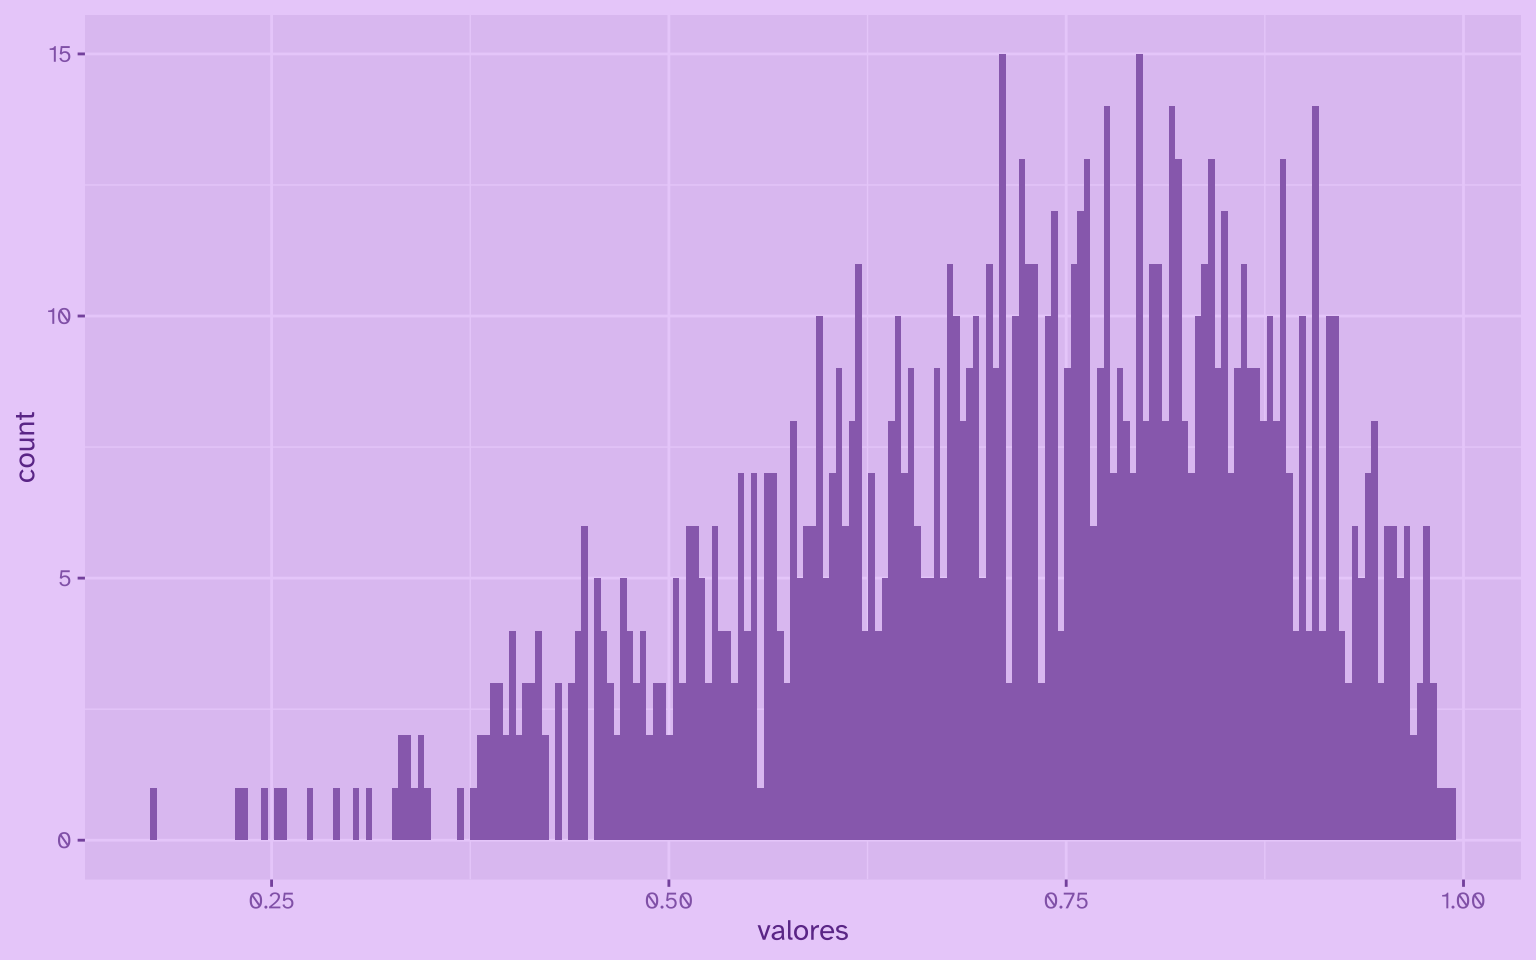
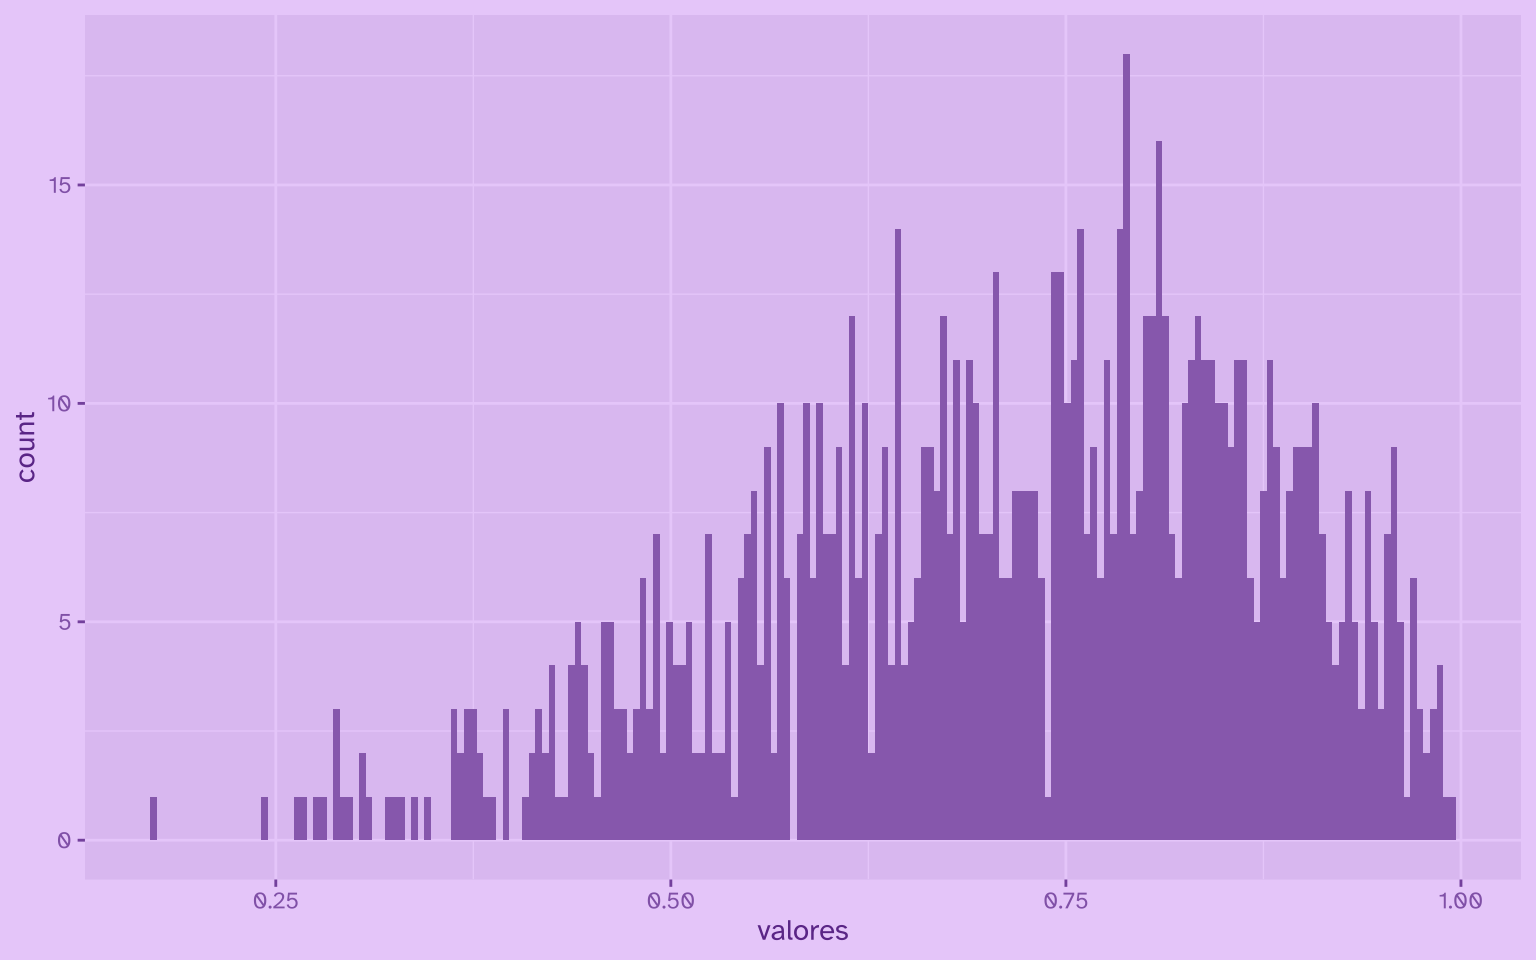
detalles

diff --git a/content/blog/2026-08-26/index.md b/content/blog/2026-08-26/index.md
@@ -14,12 +14,18 @@ format:
 execute:
   message: false
   warning: false
+excerpt: >-
+  El método de cortes naturales de Jenks se usa para categorizar variables
+  contínuas en variables ordinales; es decir, pasar de una variable numérica a
+  la cantidad de categorías discretas que necesitemos. Este método resalta los
+  saltos inherentes a los datos, y por lo tanto los cortes que ofrece suelen
+  tener más sentido que cortes arbitrarios en datos continuos.
 ---
 
 
 El método de cortes naturales de Jenks se usa para categorizar variables contínuas en variables ordinales; es decir, pasar de una variable numérica a la cantidad de categorías discretas que necesitemos.
 
-El método Jenks busca maximizar varianza entre clases, y minimizar varianza dentro de las clases. La gracia de Jenks es que resalta los saltos inherentes a los datos, y por lo tanto los cortes que ofrece suelen tener más sentido en datos continuos.
+El método Jenks busca maximizar varianza entre clases, y minimizar varianza dentro de las clases. La gracia de Jenks es que resalta los saltos inherentes a los datos, y por lo tanto los cortes que ofrece suelen tener más sentido que cortes arbitrarios o regulares en datos continuos.
 
 En R base se implementa con la función `classIntervals(..., style = "jenks")`, pero [el paquete `{BAMMtools}` ofrece](https://github.com/macroevolution/bammtools) una implementación en C mucho más eficiente: `getJenksBreaks()`.
 
@@ -56,7 +62,7 @@ cortes <- getJenksBreaks(datos$valores, 5)
 cortes
 ```
 
-    [1] 0.1756957 0.5092826 0.6712164 0.8172866 0.9932851
+    [1] 0.1726055 0.5182463 0.6863508 0.8269625 0.9948571
 
 Aplicamos los cortes a los datos con la función `cut()`, que *corta* variables numéricas continuas en los puntos indicados; en este caso, los cortes obtenidos con el método Jenks:
 
